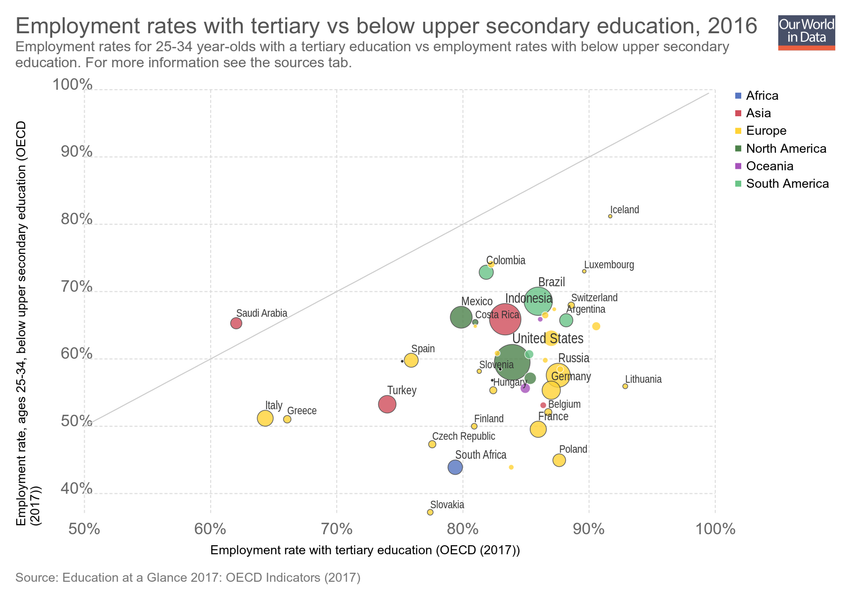
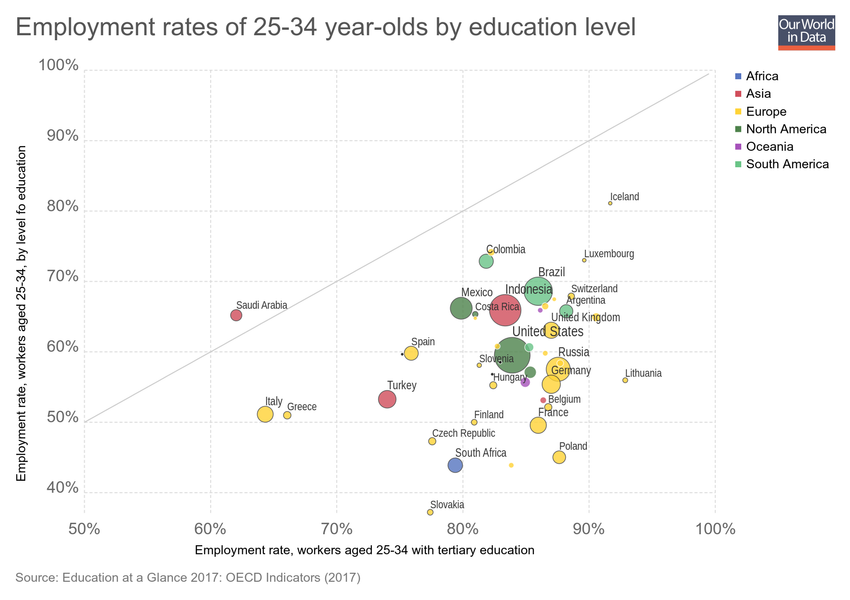
Updating chart employment-rates-with-tertiary-vs-below-upper-secondary-education

diff --git a/grapher/employment-rates-with-tertiary-vs-below-upper-secondary-education.html b/grapher/employment-rates-with-tertiary-vs-below-upper-secondary-education.html
@@ -1,4 +1,4 @@
-<!doctype html><html><head><meta name="viewport" content="width=device-width, initial-scale=1" /><title>Employment rates with tertiary vs below upper secondary education - Our World in Data</title><meta name="description" content="Employment rates for 25-34 year-olds with a tertiary education vs employment rates with below upper secondary education. For more information see the sources tab." /><link rel="canonical" href="https://ourworldindata.org/grapher/employment-rates-with-tertiary-vs-below-upper-secondary-education" /><meta property="fb:app_id" content="1149943818390250" /><meta property="og:url" content="https://ourworldindata.org/grapher/employment-rates-with-tertiary-vs-below-upper-secondary-education" /><meta property="og:title" content="Employment rates with tertiary vs below upper secondary education" /><meta property="og:description" content="Employment rates for 25-34 year-olds with a tertiary education vs employment rates with below upper secondary education. For more information see the sources tab." /><meta property="og:image" content="https://ourworldindata.org/grapher/exports/employment-rates-with-tertiary-vs-below-upper-secondary-education.png?v=11" /><meta property="og:image:width" content="850" /><meta property="og:image:height" content="600" /><meta property="og:site_name" content="Our World in Data" /><meta name="twitter:card" content="summary_large_image" /><meta name="twitter:site" content="@OurWorldInData" /><meta name="twitter:creator" content="@OurWorldInData" /><meta name="twitter:title" content="Employment rates with tertiary vs below upper secondary education" /><meta name="twitter:description" content="Employment rates for 25-34 year-olds with a tertiary education vs employment rates with below upper secondary education. For more information see the sources tab." /><meta name="twitter:image" content="https://ourworldindata.org/grapher/exports/employment-rates-with-tertiary-vs-below-upper-secondary-education.png?v=11" /><style>
+<!doctype html><html><head><meta name="viewport" content="width=device-width, initial-scale=1" /><title>Employment rates of 25-34 year-olds by education level - Our World in Data</title><meta name="description" content="An interactive visualization from Our World in Data." /><link rel="canonical" href="https://ourworldindata.org/grapher/employment-rates-with-tertiary-vs-below-upper-secondary-education" /><meta property="fb:app_id" content="1149943818390250" /><meta property="og:url" content="https://ourworldindata.org/grapher/employment-rates-with-tertiary-vs-below-upper-secondary-education" /><meta property="og:title" content="Employment rates of 25-34 year-olds by education level" /><meta property="og:description" content="An interactive visualization from Our World in Data." /><meta property="og:image" content="https://ourworldindata.org/grapher/exports/employment-rates-with-tertiary-vs-below-upper-secondary-education.png?v=12" /><meta property="og:image:width" content="850" /><meta property="og:image:height" content="600" /><meta property="og:site_name" content="Our World in Data" /><meta name="twitter:card" content="summary_large_image" /><meta name="twitter:site" content="@OurWorldInData" /><meta name="twitter:creator" content="@OurWorldInData" /><meta name="twitter:title" content="Employment rates of 25-34 year-olds by education level" /><meta name="twitter:description" content="An interactive visualization from Our World in Data." /><meta name="twitter:image" content="https://ourworldindata.org/grapher/exports/employment-rates-with-tertiary-vs-below-upper-secondary-education.png?v=12" /><style>
         html, body {
             height: 100%;
             margin: 0;
@@ -20,8 +20,8 @@
         }
     </style><noscript><style>
                     figure { display: none !important; }
-                </style></noscript><link rel="stylesheet" href="https://ourworldindata.org/grapher/assets/commons.bundle.b9f051796dbbbb7e5139.css" /><link rel="preload" href="/grapher/data/variables/97775+97778+72+123.json?v=11" as="fetch" crossorigin /></head><body class="singleChart"><figure data-grapher-src="/grapher/employment-rates-with-tertiary-vs-below-upper-secondary-education"></figure><noscript id="fallback"><img src="/grapher/exports/employment-rates-with-tertiary-vs-below-upper-secondary-education.svg" /><p>Interactive visualization requires JavaScript</p></noscript><script src="https://cdn.polyfill.io/v2/polyfill.min.js?features=es6,fetch"></script><script src="https://ourworldindata.org/grapher/assets/commons.bundle.b9f051796dbbbb7e5139.js"></script><script src="https://ourworldindata.org/grapher/assets/charts.bundle.b9f051796dbbbb7e5139.js"></script><script>
-        var jsonConfig = {"id":2949,"map":{"projection":"World","colorSchemeLabels":[],"colorSchemeValues":[],"customNumericColors":[],"customCategoryColors":{},"customCategoryLabels":{},"customHiddenCategories":{}},"tab":"chart","slug":"employment-rates-with-tertiary-vs-below-upper-secondary-education","type":"ScatterPlot","title":"Employment rates with tertiary vs below upper secondary education","xAxis":{"max":100,"min":50,"scaleType":"linear"},"yAxis":{"max":100,"min":50,"scaleType":"linear"},"version":11,"subtitle":"Employment rates for 25-34 year-olds with a tertiary education vs employment rates with below upper secondary education. For more information see the sources tab.","hasMapTab":false,"stackMode":"absolute","dimensions":[{"display":{},"property":"y","variableId":97775},{"display":{"name":"Employment rate with tertiary education (OECD (2017))"},"property":"x","variableId":97778},{"display":{},"property":"size","variableId":72},{"display":{},"property":"color","variableId":123}],"hasChartTab":true,"isPublished":true,"selectedData":[],"comparisonLine":{}};
+                </style></noscript><link rel="stylesheet" href="https://ourworldindata.org/grapher/assets/commons.bundle.b9f051796dbbbb7e5139.css" /><link rel="preload" href="/grapher/data/variables/97775+97778+72+123.json?v=12" as="fetch" crossorigin /></head><body class="singleChart"><figure data-grapher-src="/grapher/employment-rates-with-tertiary-vs-below-upper-secondary-education"></figure><noscript id="fallback"><img src="/grapher/exports/employment-rates-with-tertiary-vs-below-upper-secondary-education.svg" /><p>Interactive visualization requires JavaScript</p></noscript><script src="https://cdn.polyfill.io/v2/polyfill.min.js?features=es6,fetch"></script><script src="https://ourworldindata.org/grapher/assets/commons.bundle.b9f051796dbbbb7e5139.js"></script><script src="https://ourworldindata.org/grapher/assets/charts.bundle.b9f051796dbbbb7e5139.js"></script><script>
+        var jsonConfig = {"id":2949,"map":{"projection":"World","colorSchemeLabels":[],"colorSchemeValues":[],"customNumericColors":[],"customCategoryColors":{},"customCategoryLabels":{},"customHiddenCategories":{}},"tab":"chart","slug":"employment-rates-with-tertiary-vs-below-upper-secondary-education","type":"ScatterPlot","title":"Employment rates of 25-34 year-olds by education level","xAxis":{"max":100,"min":50,"scaleType":"linear"},"yAxis":{"max":100,"min":50,"scaleType":"linear"},"version":12,"hasMapTab":false,"stackMode":"absolute","dimensions":[{"display":{"name":"Employment rate, workers aged 25-34, by level fo education"},"property":"y","variableId":97775},{"display":{"name":"Employment rate, workers aged 25-34 with tertiary education"},"property":"x","variableId":97778},{"display":{},"property":"size","variableId":72},{"display":{},"property":"color","variableId":123}],"hasChartTab":true,"isPublished":true,"selectedData":[],"comparisonLine":{},"hideTitleAnnotation":true};
         var figure = document.getElementsByTagName("figure")[0];
         try {
             window.App = {};
